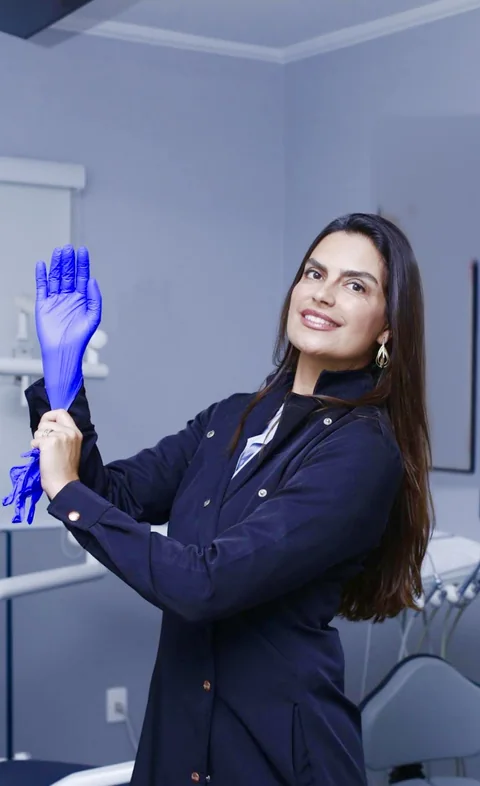
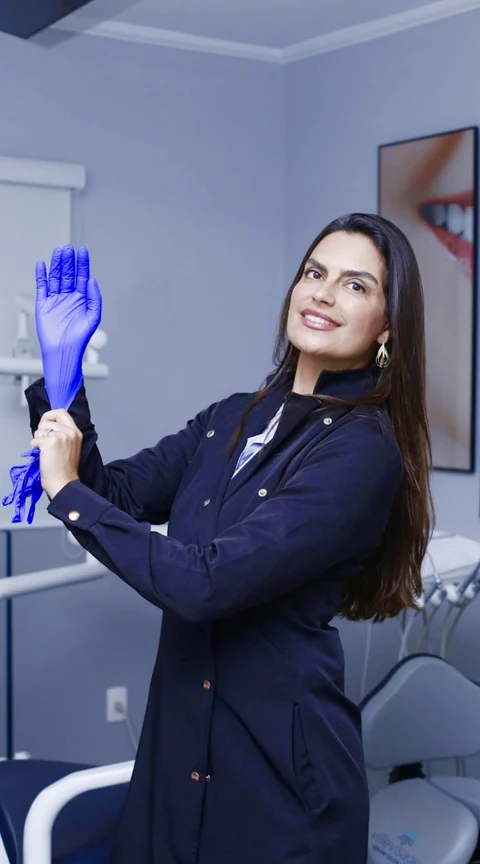
Usar a foto original da doutora com luvas, sem edição
A pedido da cliente, a foto da seção Sobre volta a ser a original,
inteira e sem cortes. Pendência de confirmação anotada no README.

Claude-Session: https://claude.ai/code/session_01FtHKSW617BsgdHpnnWwtzy

diff --git a/dra-ana-villela/src/components/Sections.tsx b/dra-ana-villela/src/components/Sections.tsx
@@ -221,14 +221,14 @@ export function Sobre() {
         <Reveal className="relative order-last mx-auto w-full max-w-[22rem] lg:order-first lg:max-w-[24rem]">
           <div aria-hidden className="absolute -left-6 -top-6 h-40 w-40 rounded-full border border-champagne/70" />
           <figure className="relative">
-            <div className="aspect-[4/6] overflow-hidden rounded-[1.75rem] bg-porcelana-2">
+            <div className="aspect-[953/1716] overflow-hidden rounded-[1.75rem] bg-porcelana-2">
               <img
                 src={CONFIG.fotos.consultorio}
                 srcSet={CONFIG.fotos.consultorioSrcSet}
                 sizes="(min-width: 1024px) 384px, min(352px, calc(100vw - 40px))"
                 alt={`${CONFIG.nome} no consultório, de jaleco azul-marinho, calçando luvas`}
                 width={953}
-                height={1560}
+                height={1716}
                 loading="lazy"
                 decoding="async"
                 className="h-full w-full object-cover object-top"

diff --git a/dra-ana-villela/src/config.ts b/dra-ana-villela/src/config.ts
@@ -61,7 +61,7 @@ export const CONFIG = {
     retrato: "/fotos/dra-ana-villela-retrato-760.webp",
     retratoSrcSet:
       "/fotos/dra-ana-villela-retrato-480.webp 480w, /fotos/dra-ana-villela-retrato-760.webp 760w, /fotos/dra-ana-villela-retrato-1015.webp 1015w",
-    // Na foto do consultório, o quadro com close de sorriso foi coberto e a marca da clínica na cadeira foi cortada.
+    // Foto do consultório: original, sem edição (pedido da cliente).
     consultorio: "/fotos/dra-ana-villela-consultorio-760.webp",
     consultorioSrcSet:
       "/fotos/dra-ana-villela-consultorio-480.webp 480w, /fotos/dra-ana-villela-consultorio-760.webp 760w, /fotos/dra-ana-villela-consultorio-953.webp 953w",

diff --git a/dra-ana-villela/README.md b/dra-ana-villela/README.md
@@ -38,6 +38,7 @@ Para publicar no Netlify Drop: `cd dist && zip -r ../site-dra-ana-villela.zip . 
 - [ ] Alinhadores: se é prestadora credenciada Invisalign e se pode citar a marca (hoje: "alinhadores transparentes").
 - [ ] Vínculo com a clínica parceira (não citada no site sem autorização).
 - [ ] Autorização de uso das fotos (vieram da ficha do Google) e fotos em maior resolução. Nas fotos da fachada e da entrada a marca da clínica foi removida; na sala, os quadros de sorriso e a imagem do monitor foram cobertos. Com fotos originais autorizadas, basta substituir os arquivos em `public/fotos/`.
+- [ ] Foto da doutora com luvas (seção Sobre): publicada sem edição, a pedido. Confirmar que o quadro de sorriso ao fundo não é foto de paciente e que a marca da clínica na cadeira pode aparecer.
 - [ ] Logo oficial.
 - [ ] Avaliações do Google: seção omitida até haver autorização para exibir avaliações reais.
 - [ ] Compromissos de atendimento (Naturalidade, Planejamento individual, Clareza, Acompanhamento).
